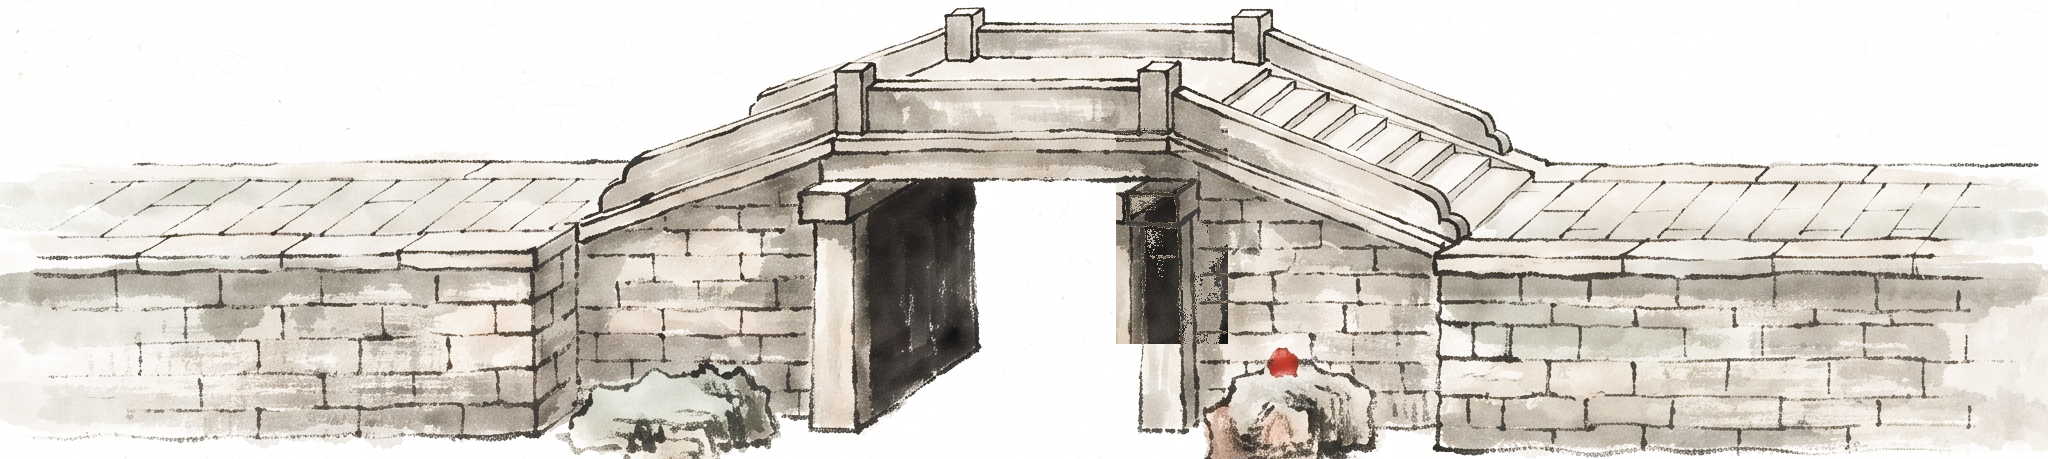
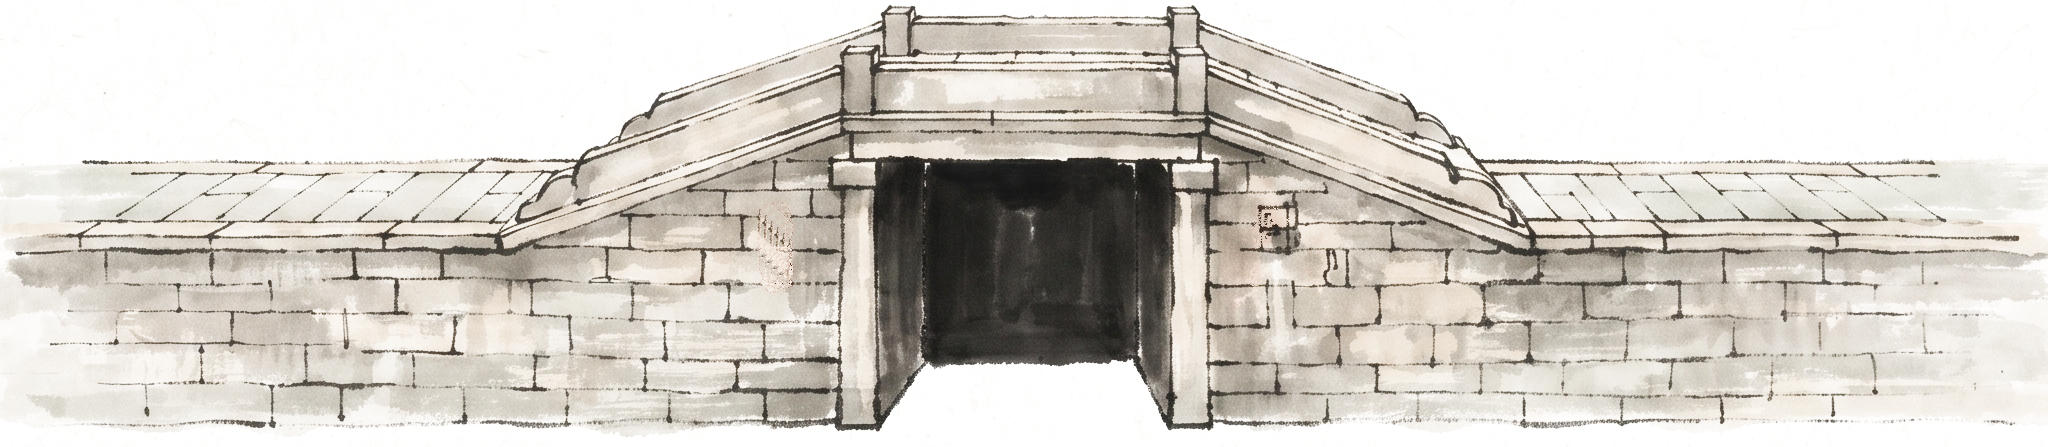
Bridge B lands on the third generation, single-opening (b36)
The single-opening restructure worked: one rectangular opening, deep
black, nothing visible through it. A 2391-pixel red seal stamp wiped at
bake by neighbour-fill - a deterministic pixel cleanup, not the
structural repaint that made the first B read as a repair. Stray red
matters doubly here because red never drains.

The failed reroll is recorded in the prompt's own note: the two-opening
form failed twice, one dark one bare, whatever the wording demanded.
Restructure beat rewording.

b36 on the phone: probed, fresh container, process alive. Both bridges
now stand in the walkway as the art painted them.

diff --git a/src/screens/Walk.tsx b/src/screens/Walk.tsx
@@ -365,7 +365,7 @@ export function Walk() {
       <Text style={styles.lookBack} onPress={onLookBack}>
         look back
       </Text>
-      <Text style={styles.stamp}>b35</Text>
+      <Text style={styles.stamp}>b36</Text>
     </GestureHandlerRootView>
   );
 }

diff --git a/tools/build_prompts.py b/tools/build_prompts.py
@@ -113,6 +113,7 @@ LANDED = {
     "23": "lamp-in-window.png",
     "27": "lane-mouth.png",
     "31": "seg-bridge-a.png",
+    "32": "seg-bridge-b.png  (third generation, single opening - the two-opening form failed twice)",
     "33": "night-water.png",
     "25": "baby-print.png",
     # [29] deliberately NOT here. The plate exists and is unused - the
